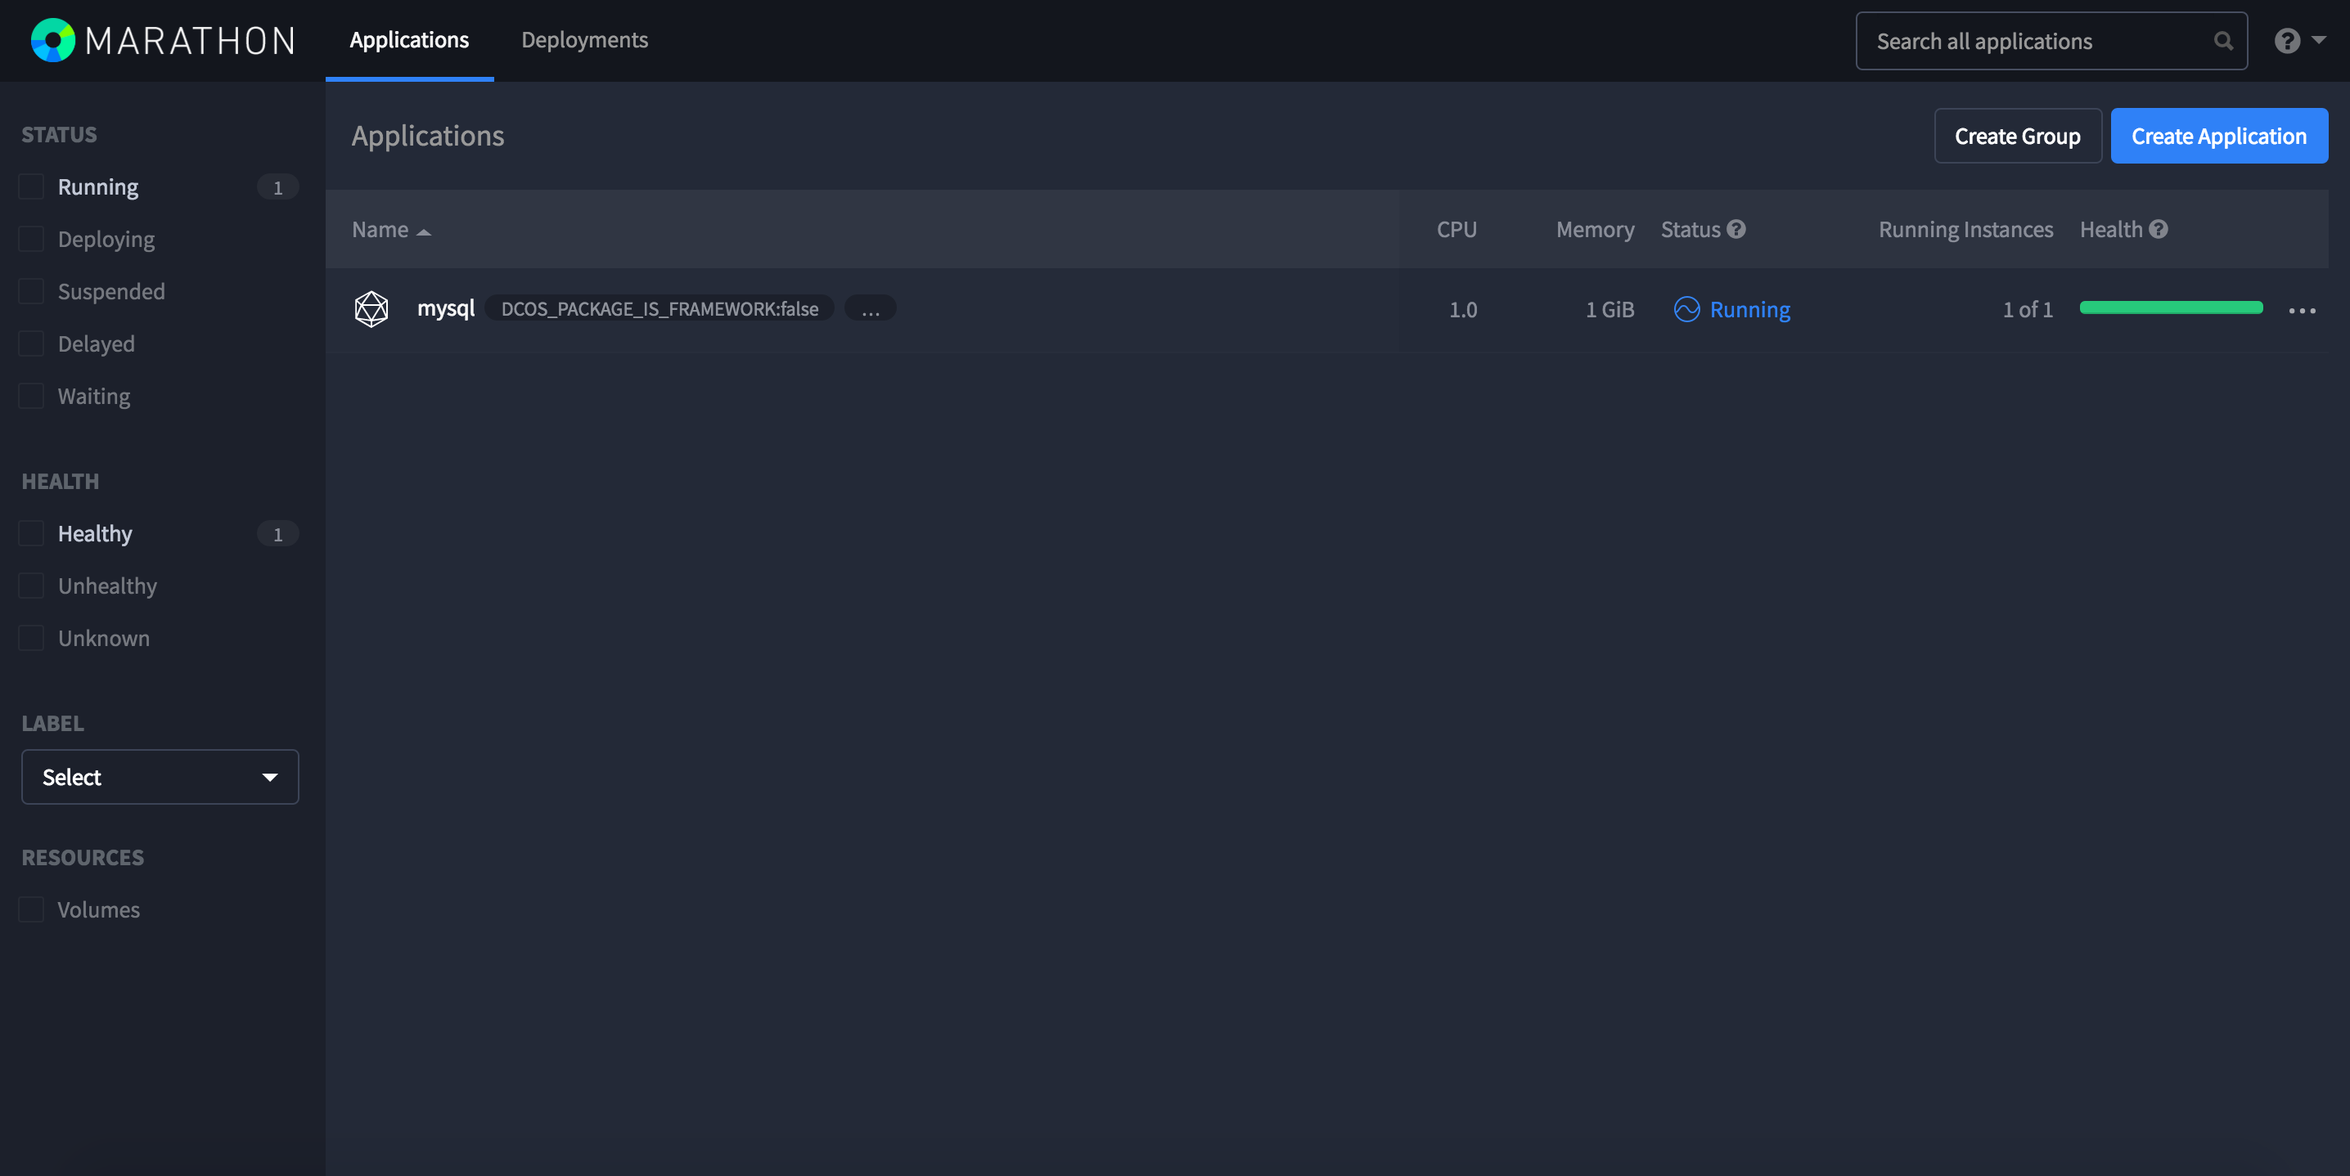
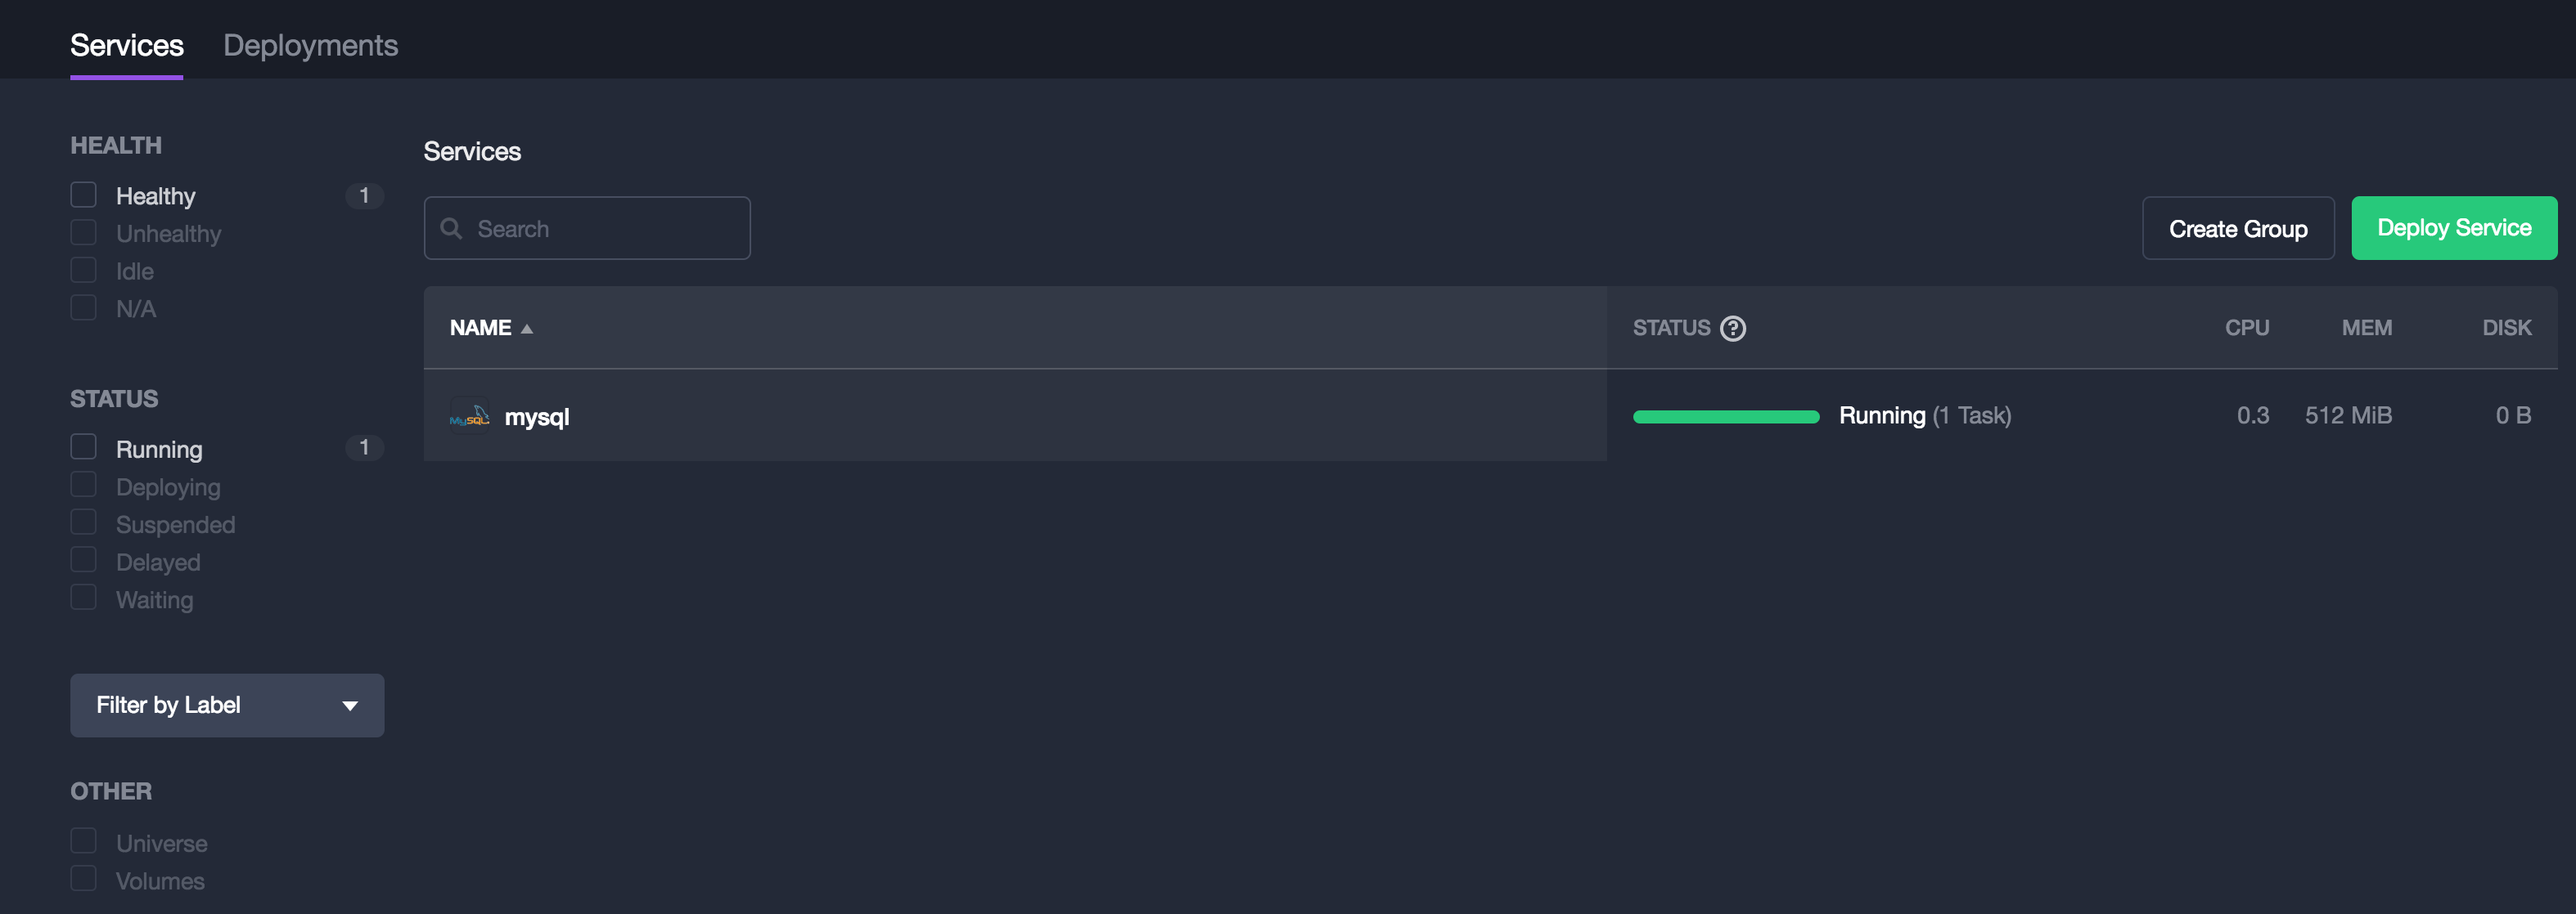
Replace Marathon UI references with DCOS UI.

diff --git a/install-mysql.md b/install-mysql.md
@@ -15,9 +15,9 @@
 
 ![MySQL Networking Options](https://raw.githubusercontent.com/JFrogDev/artifactory-dcos/master/images/MySQL_Networking.png)
 
-5. Make sure MySQL is running and is healthy by looking at the Marathon UI.
+5. Make sure MySQL is running and is healthy by looking under the Services tab in the DC/OS UI.
 
-![MySQL Health in Marathon UI](https://raw.githubusercontent.com/JFrogDev/artifactory-dcos/master/images/MySQL_Health.png)
+![MySQL Health in DC/OS UI](https://raw.githubusercontent.com/JFrogDev/artifactory-dcos/master/images/MySQL_Health.png)
 
 
 Bingo! Now you can install Artifactory Pro or Artifactory Enterprise.
